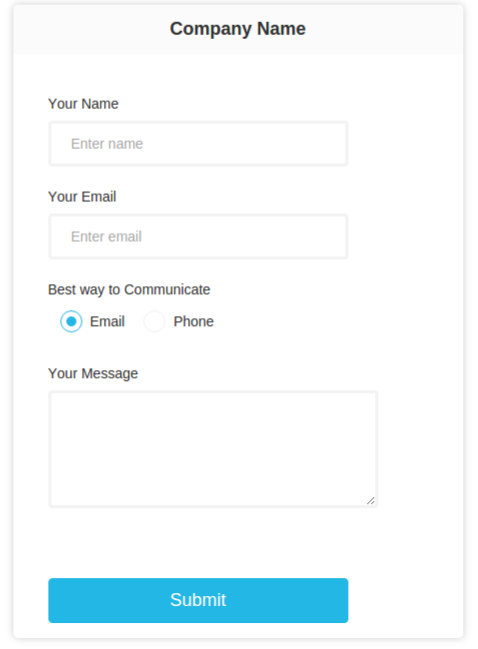
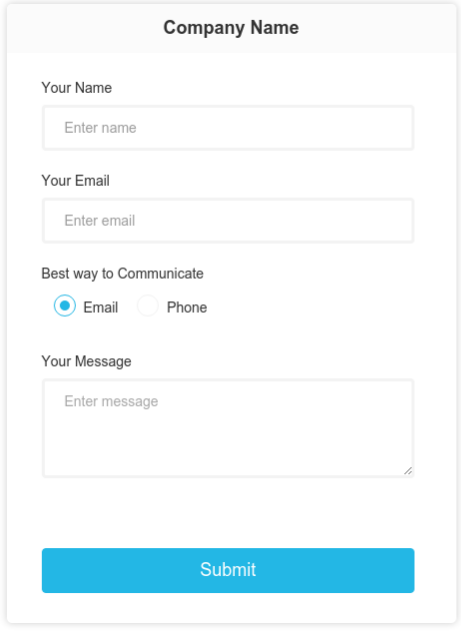
Placeholder to TextArea Themes UI Fix with Starting Text blect Removal

diff --git a/agile-frontend/WebContent/misc/formbuilder/agile-form.css b/agile-frontend/WebContent/misc/formbuilder/agile-form.css
@@ -3,7 +3,7 @@
   vertical-align: middle;}
 /*default form css end*/
 /*form theme1 css start*/
-.theme1 input[type=text],.theme1 input[type=email],.theme1 input[type=password],.theme1 input[type=url],.theme1 .agile-group select:not([multiple]) {
+.theme1 input[type=text],.theme1 input[type=email],.theme1 input[type=password],.theme1 input[type=url],.theme1 .agile-group select:not([multiple]),.theme1 textarea {
   border: 1px solid #cfdadd;
   -webkit-border-radius: 50px;
   -moz-border-radius: 50px;
@@ -115,7 +115,7 @@ margin: auto
   outline:none!important;
   border: 1px solid #cfdadd!important;
 }
-.theme1 .agile-field textarea{padding:5px !important;/*max-width:400px;*/border:1px solid #ccc!important;resize:vertical;}
+.theme1 .agile-field textarea{/*padding:5px !important;*//*max-width:400px;*/border:1px solid #ccc!important;resize:vertical;}
 .theme1 .agile-field select{border: 1px solid #ccc!important;}
 .theme1 .agile-field select:focus{outline:none;}
 .theme1.agile-form-transparent input,.theme1.agile-form-transparent select,.theme1.agile-form-transparent textarea{background-color:transparent;border:1px solid #fff!important;border-radius: 0!important;}.theme1.agile-form-transparent ::-webkit-input-placeholder{color:#fff!important}.theme1.agile-form-transparent :-moz-placeholder{color:#fff!important}.theme1.agile-form-transparent ::-moz-placeholder{color:#fff!important}.theme1.agile-form-transparent :-ms-input-placeholder{color:#fff!important}.theme1.agile-form-transparent input:focus,.theme1.agile-form-transparent textarea:focus,.theme1.agile-form-transparent select:focus{border: 2px solid #9E9E9E!important;}.theme1.agile-form-transparent .agile-group-addon:first-child{
@@ -123,7 +123,7 @@ margin: auto
 .theme1.agile-form-transparent .agile-group-addon:last-child{border-top-right-radius:0!important;border-bottom-right-radius:0!important;}
 /*form theme1 css end*/
 /*form theme2 css start*/
-.theme2 input[type=text],.theme2 input[type=email],.theme2 input[type=password],.theme2 input[type=url],.theme2 select {
+.theme2 input[type=text],.theme2 input[type=email],.theme2 input[type=password],.theme2 input[type=url],.theme2 select,.theme2 textarea {
   border: 1px solid #cfdadd;
   -webkit-border-radius: 4px;
   -moz-border-radius: 4px;
@@ -295,11 +295,11 @@ margin-left: 35px;
   background-color: #fff; box-shadow: inherit; border:3px solid #f3f3f3;
 }
 .theme2 input[type=email]:focus,.theme2 input[type=url]:focus,.theme2 input[type=password]:focus,.theme2 input[type=password]:focus,.theme2 input[type=text]:focus,.theme2 textarea:focus,.theme2 select:focus{border:3px solid #66afe9 !important;outline:none!important;}
-.theme2 .agile-field textarea{padding:0px !important;resize:vertical;/*max-width:400px;*/}
+.theme2 .agile-field textarea{/*padding:0px !important;*/resize:vertical;/*max-width:400px;*/}
 .theme2.agile-form-transparent input,.theme2.agile-form-transparent select,.theme2.agile-form-transparent textarea{background-color:transparent;border-left: 1px solid #fff!important;border-right: 1px solid #fff!important;border-bottom: 1px solid #fff!important;border-top: 1px solid #f1f1f1!important;border-radius: 0!important;}.theme2.agile-form-transparent ::-webkit-input-placeholder{color:#fff!important}.theme2.agile-form-transparent :-moz-placeholder{color:#fff!important}.theme2.agile-form-transparent ::-moz-placeholder{color:#fff!important}.theme2.agile-form-transparent :-ms-input-placeholder{color:#fff!important}.theme2.agile-form-transparent input:focus,.theme2.agile-form-transparent textarea:focus,.theme2.agile-form-transparent select:focus{border: 2px solid #9E9E9E!important;}.theme1.agile-form-transparent,.theme2.agile-form-transparent{box-shadow: none;-webkit-box-shadow: none;}
 /*form theme2 css end*/
 /*form theme3 css start*/
-.theme3 input[type=text],.theme3 input[type=email],.theme3 input[type=password],.theme3 input[type=url],.theme3 select {
+.theme3 input[type=text],.theme3 input[type=email],.theme3 input[type=password],.theme3 input[type=url],.theme3 select,.theme3 textarea {
   border: 1px solid #cfdadd;
   -webkit-border-radius: 4px;
   -moz-border-radius: 4px;
@@ -419,10 +419,10 @@ margin-left: 35px;
 }
 .theme3 .agile-group-addon{border: 0px; background-color:#00ada7; color: #fff;}
 .theme3 input[type=email]:focus,.theme3 input[type=url]:focus,.theme3 input[type=password]:focus,.theme3 input[type=text]:focus,.theme3 textarea:focus,.theme3  select:focus{border:0px solid #66afe9 !important;outline:none!important;}
-.theme3 .agile-field textarea{padding:0px !important;resize:vertical;/*max-width:400px;*/}
+.theme3 .agile-field textarea{/*padding:0px !important;*/resize:vertical;/*max-width:400px;*/}
 /*form theme3 css end*/
 /*form theme4 css start*/
-.theme4 input[type=text],.theme4 input[type=email],.theme4 input[type=password],.theme4 input[type=url],.theme4 select {
+.theme4 input[type=text],.theme4 input[type=email],.theme4 input[type=password],.theme4 input[type=url],.theme4 select,.theme4 textarea {
   border: 1px solid #cfdadd;
   -webkit-border-radius: 4px;
   -moz-border-radius: 4px;

diff --git a/agile-frontend/WebContent/misc/formbuilder/assets/templates/snippet/textarea.html b/agile-frontend/WebContent/misc/formbuilder/assets/templates/snippet/textarea.html
@@ -2,7 +2,7 @@
 <div class="agile-group<% if(required) {%> required-control<% } %>">
   <label class="agile-label" for ="<%= id %>"><%= label %></label>
   <div class="<%= inputsize %> agile-field">
-    <textarea maxlength="250" id="<%= id %>" name="<%if(agilefield){%><%= agilefield %><%}else{%><%= id %><%}%>" placeholder="<%= placeholder %>" <% if(required) {%> required <% } %> class="<%= inputheight %>"><%= textarea %></textarea>
+    <textarea maxlength="250" id="<%= id %>" name="<%if(agilefield){%><%= agilefield %><%}else{%><%= id %><%}%>" placeholder="<%= placeholder %>" <% if(required) {%> required <% } %> class="<%= inputheight %>"></textarea>
   </div>
   <div class="agile-custom-clear"></div>
 </div>

diff --git a/agile-frontend/WebContent/misc/formbuilder/assets/helper/formload.js b/agile-frontend/WebContent/misc/formbuilder/assets/helper/formload.js
@@ -22,6 +22,9 @@ define([
 							};
 							saveform[i].fields.placeholder=placeholder;
 						}
+						if(saveform[i].fields.textarea){
+							saveform[i].fields.textarea=null;
+						}
 					}
 				}
 				var agilethemeObj=saveform[0].fields.agiletheme;
